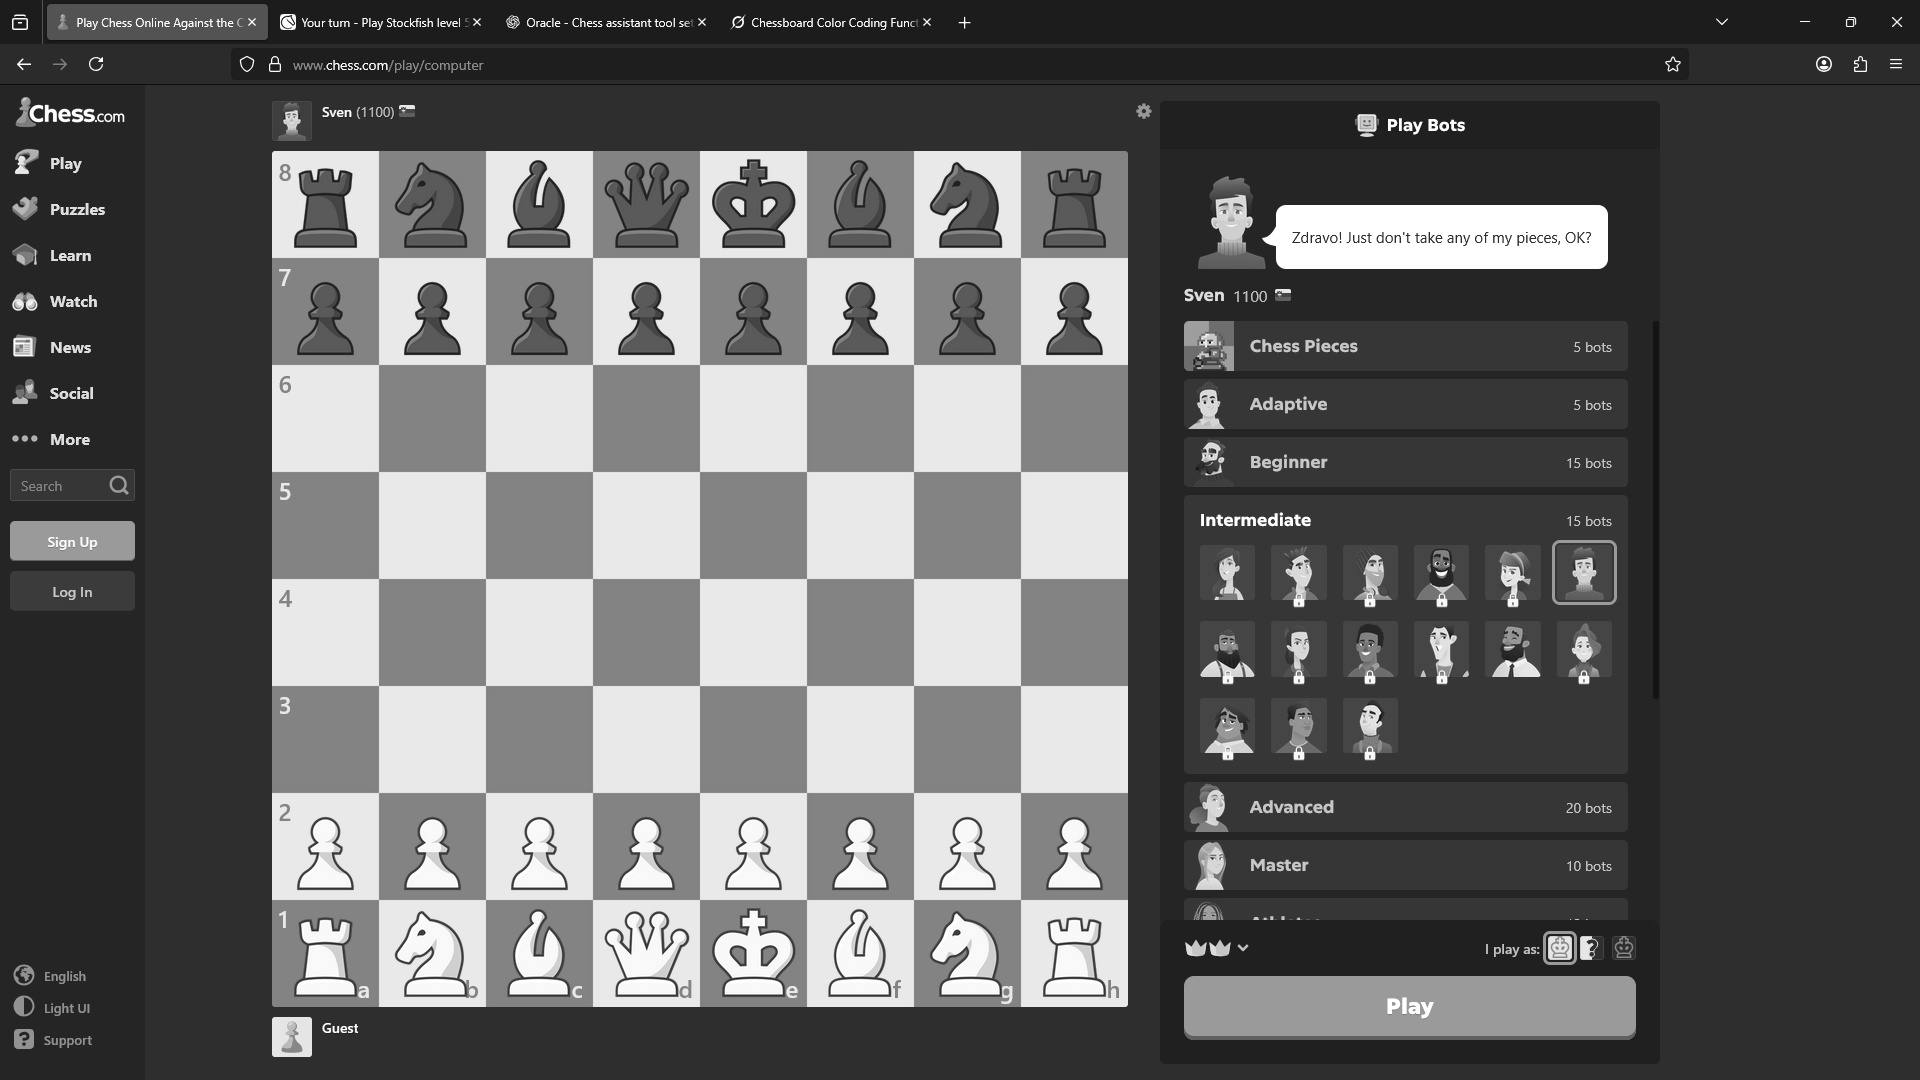
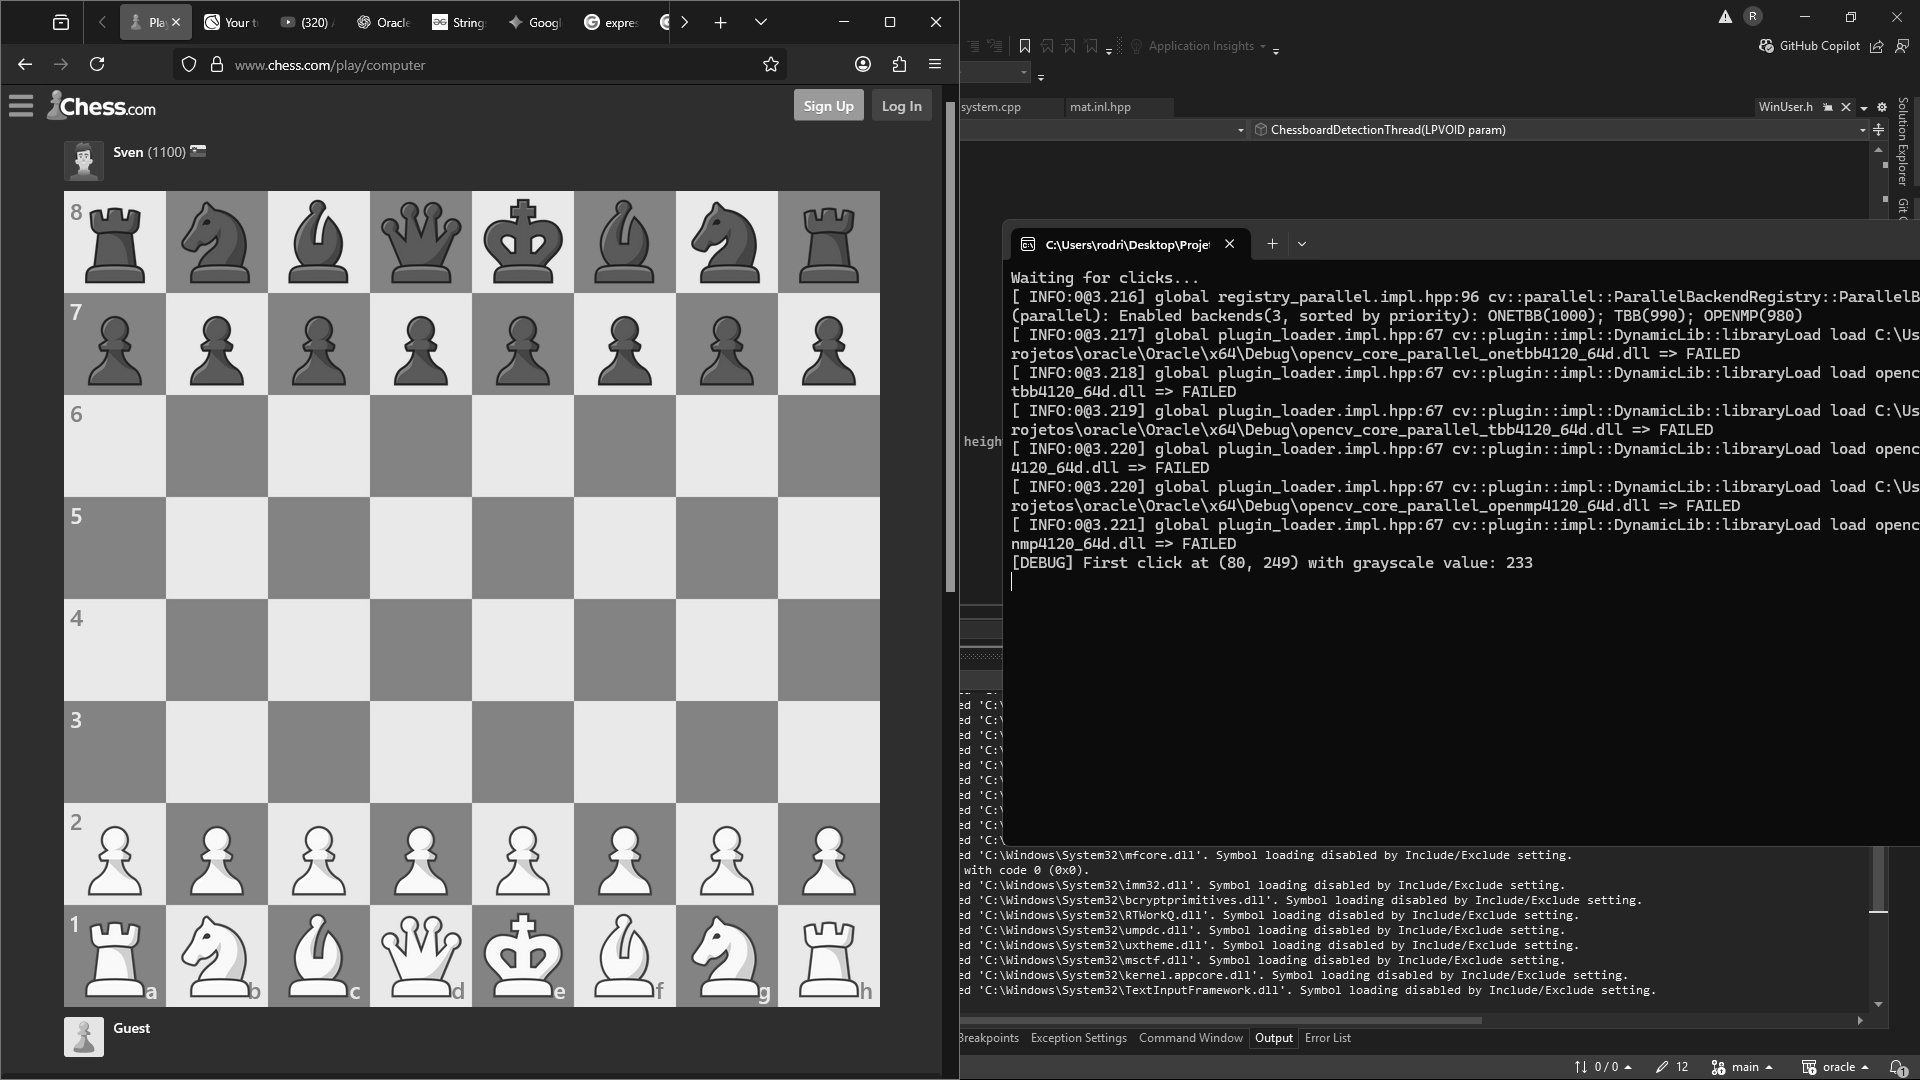
Implement piece detection.

diff --git a/Oracle/ChessboardDetection.cpp b/Oracle/ChessboardDetection.cpp
@@ -136,27 +136,30 @@ DWORD WINAPI ChessboardDetectionThread(LPVOID param) {
     auto duration = std::chrono::duration_cast<std::chrono::milliseconds>(end - start);
 
     HWND hwndOverlay = (HWND)param;
+	HWND hwndDesktop = GetDesktopWindow();
     int drawn = 0;
 
     std::cout << "[INFO] Processing chessboard." << std::endl;
 
     // Screenshot timing.
     start = std::chrono::high_resolution_clock::now();
-    cv::Mat screenshot = HWND2MAT(GetDesktopWindow());
+    cv::Mat screenshot = HWND2MAT(hwndDesktop);
     end = std::chrono::high_resolution_clock::now();
     duration = std::chrono::duration_cast<std::chrono::milliseconds>(end - start);
 
     if (screenshot.empty()) return 0;
 
-    // Validate the chessboard in the click-defined region.
-    cv::Rect boardRect = GetBoardROI(screenshot, CLICKS.first, CLICKS.second);
+    RECT bestRect;
 
-    auto result = ValidateChessboard(screenshot, boardRect, screenshot);
+    // Validate the chessboard in the click-defined region.
+    cv::Rect boardROI = GetBoardROI(screenshot, CLICKS.first, CLICKS.second);
+
+    auto result = ValidateChessboard(screenshot, boardROI, screenshot);
     if (result) {
         // Drawing the board on the overlay.
         const cv::Rect& fixedRect = *result;
-        RECT r = { fixedRect.x, fixedRect.y, fixedRect.x + fixedRect.width, fixedRect.y + fixedRect.height };
-        SetBestRectangle(r);
+        bestRect = { fixedRect.x, fixedRect.y, fixedRect.x + fixedRect.width, fixedRect.y + fixedRect.height };
+        SetBestRectangle(bestRect);
         PostMessage(hwndOverlay, WM_CHESSBOARD_DETECTED, NULL, NULL);
 
         // Determining piece colors by sampling rooks.
@@ -176,8 +179,43 @@ DWORD WINAPI ChessboardDetectionThread(LPVOID param) {
 
     std::cout << "[INFO] Processed chessboard." << std::endl;
 
-    // Retrieve the pieces.
-    
+    // Retrieving piece images.
+    int cellWidth = (bestRect.right - bestRect.left) / 8;
+    int cellHeight = (bestRect.bottom - bestRect.top) / 8;
+
+    // Creating temporary directory for piece images.
+    LPCWSTR tempDir = L"temp"; // Pointer.
+    std::string tempDirStr = "temp"; // String.
+    RemoveDirectory(tempDir);
+    CreateDirectory(tempDir, NULL);
+
+    for (int i = 0; i < 5; ++i) {
+        int x = bestRect.left + i * cellWidth;
+        int y = bestRect.top;
+
+		std::cout << "[DEBUG] Capturing piece at (" << x << ", " << y << " with width " << cellWidth << " and height " << cellHeight << ")\n";
+        cv::Mat piece = CropHWND2MAT(hwndDesktop, x, y, cellWidth, cellHeight);
+
+        cv::Mat edges;
+        cv::Canny(piece, edges, 50, 150);
+
+        std::string filename = tempDirStr + "/piece_edges_row0_col" + std::to_string(i) + ".png";
+        cv::imwrite(filename, edges);
+
+        if (i == 4) {
+            // First cell of second row.
+            int x = bestRect.left;
+            int y = bestRect.top + cellHeight;
+            cv::Mat piece = CropHWND2MAT(hwndDesktop, x, y, cellWidth, cellHeight);
+
+            cv::Mat edges;
+            cv::Canny(piece, edges, 50, 150);
+
+            std::string filename = tempDirStr + "/piece_edges_row1_col0.png";
+            cv::imwrite(filename, edges);
+        }
+    }
+
     Sleep(500000000);
 
     return 0;

diff --git a/Oracle/Utils.cpp b/Oracle/Utils.cpp
@@ -38,6 +38,19 @@ cv::Mat HWND2MAT(HWND hwnd) {
     return result; 
 }
 
+cv::Mat CropHWND2MAT(HWND hwnd, int x, int y, int width, int height) {
+    cv::Mat full = HWND2MAT(hwnd);
+    if (full.empty()) return cv::Mat();
+
+    x = std::clamp(x, 0, full.cols - 1);
+    y = std::clamp(y, 0, full.rows - 1);
+    width = std::min(width, full.cols - x);
+    height = std::min(height, full.rows - y);
+
+    cv::Rect roi(x, y, width, height);
+    return full(roi).clone();
+}
+
 std::pair<CLICK, CLICK> GetChessboardColorCoding(HWND hwnd) {
     std::cout << "Waiting for clicks..." << std::endl;
 

diff --git a/Oracle/Utils.h b/Oracle/Utils.h
@@ -22,4 +22,8 @@ struct CLICK {
  */
 cv::Mat HWND2MAT(HWND hwnd);
 
+// TODO: Documentation.
+cv::Mat CropHWND2MAT(HWND hwnd, int x, int y, int width, int height);
+
+// TODO: Documentation.
 std::pair<CLICK, CLICK> GetChessboardColorCoding(HWND hwnd);

diff --git a/Oracle/ChessboardDetection.h b/Oracle/ChessboardDetection.h
@@ -11,6 +11,8 @@
 #include <chrono>
 #include <vector>
 #include <numeric>
+#include <string>
+#include <filesystem>
 
 #include "Utils.h"
 #include "Overlay.h"
